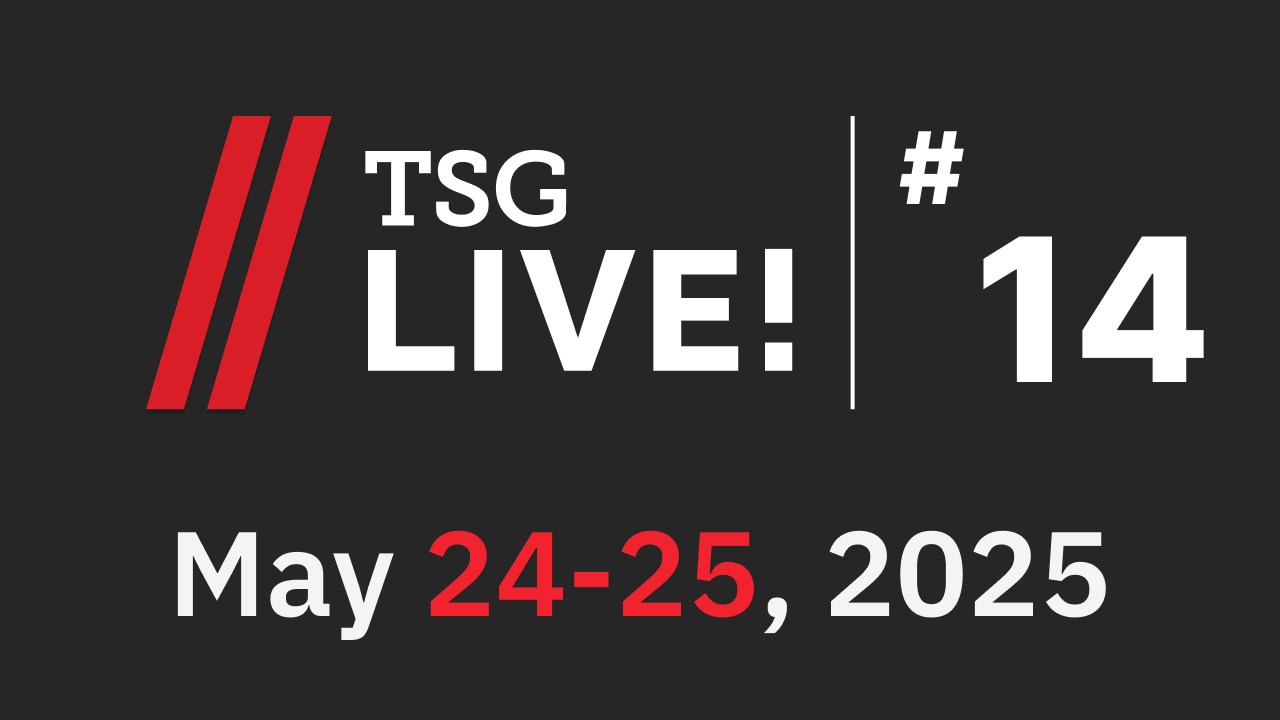
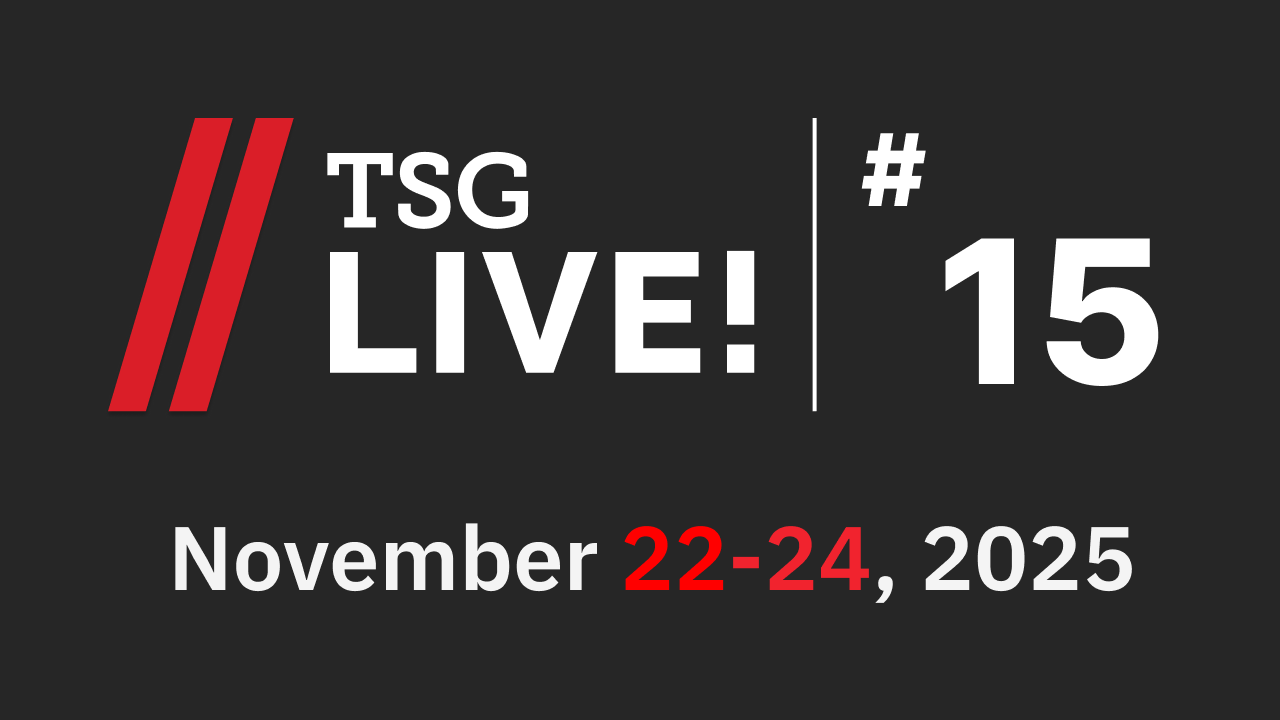
update to live 15

Changed region(s): [[0.0625, 0.1528, 0.75, 0.5806], [0.125, 0.7333, 0.9062, 0.8861], [0.7188, 0.3056, 0.9375, 0.55]]

diff --git a/index.html b/index.html
@@ -5,7 +5,7 @@
   <meta name="viewport"
         content="width=device-width, user-scalable=no, initial-scale=1.0">
   <meta http-equiv="X-UA-Compatible" content="ie=edge">
-  <title>TSG LIVE! 14</title>
+  <title>TSG LIVE! 15</title>
 
   <link rel="apple-touch-icon" sizes="180x180" href="/apple-touch-icon.png">
   <link rel="icon" type="image/png" sizes="32x32" href="/favicon-32x32.png">
@@ -20,7 +20,7 @@
 <div class="container">
   <div class="header">
     <div class="logo">
-      <img src="./twitter_banner.png" alt="TSG LIVE! 13" class="logo-img">
+      <img src="./twitter_banner.png" alt="TSG LIVE! 15" class="logo-img">
     </div>
     <div class="flex-1"></div>
 <!--    <p><a href="https://www.youtube.com/channel/UCzCqJL3-RdhTw9WHYDbPO4Q">YouTube</a></p>-->
@@ -28,40 +28,34 @@
   <h1 class="midashi-text">東大生がお送りするプログラミング・ライブ!!</h1>
   <h1 class="title">会場</h1>
   <div class="kaijou">
-    <h1>東京大学本郷キャンパス 工学部3号館4階35号講義室</13></h1>
+    <h1><a href="https://www.u-tokyo.ac.jp/campusmap/cam02_01_01_j.html">東京大学駒場キャンパス1号館</a> 2階152教室</13></h1>
   </div>
   <h1 class="title">スケジュール</h1>
   <div class="schedule">
     
     <div class="card">
-      <h2>5/24 (土)</h2>
-      <h3>11:00-12:00</h3>
-      <h1>ライトニングトーク</h1>
-      <h3>13:00-16:00</h3>
-      <h1><span class="deemphasize">ライブ</span>CTF</h1>
-      <a href="https://youtube.com/live/T4fzARVYwQg" class="button">視聴する</a>
+      <h2>11/22 (土)</h2>
+      <h3>13:00-15:00</h3>
+      <h1><span class="deemphasize">ライブ</span>コードゴルフ Day1</h1>
+      <a tabindex="-1" href="https://youtube.com/live/LrY0qyefq9A" class="unable_button">視聴する</a>
     </div>
     <div class="card">
-      <h2>5/25 (日)</h2>
+      <h2>11/23 (日)</h2>
+      <h3>11:00-</h3>
+      <h1>ライトニングトーク</h1>
       <h3>13:00-15:00</h3>
-      <h1><span class="deemphasize">ライブ</span>コードゴルフ</h1>
-      <h3>16:00-18:00</h3>
       <h1><span class="deemphasize">ライブ</span>競技プログラミング</h1>
-      <a href="https://youtube.com/live/p3wMpqrVAIw" class="button">視聴する</a>
+      <a tabindex="-1" href="https://youtube.com/live/HH-CyKcd-No" class="unable_button">視聴する</a>
+    </div>
+    <div class="card">
+      <h2>11/24 (月)</h2>
+      <h3>13:00-15:00</h3>
+      <h1><span class="deemphasize">ライブ</span>コードゴルフ Day2</h1>
+      <a tabindex="-1" href="https://youtube.com/live/gXLMeL7jbxI" class="unable_button">視聴する</a>
     </div>
   </div>
   <h1 class="title">競技紹介</h1>
   <div class="intro-box">
-    <div class="intro">
-      <h1>CTF</h1>
-      <p>
-        CTFとは、"Capture the Flag"の略であり、情報セキュリティ、簡単に言うとハッキングの競技になります。
-        形式としては、運営側の作成した、実際のサービスを模して作られたプログラムに対して、
-        プログラムに潜む脆弱性を見つけ攻撃し、相手の持っているフラグと呼ばれる文字列を入手することを目標とするジョパディ形式が主流となっています。<br>
-        問題において登場する技術分野としては、Web技術、アセンブリ、暗号などがあります。それぞれの分野で、要求される知識や攻撃手法は大きく異なります。
-        様々な分野の多彩な攻撃が繰り広げられる様を、ぜひお楽しみください。
-      </p>
-    </div>
     <div class="intro">
       <h1>ライトニングトーク</h1>
       <p>ライトニングトークとは、およそ10分以内の短い時間で発表するプレゼンテーションのことを言います。<br/>
@@ -78,15 +72,20 @@
     </div>
     <div class="intro">
     <h1>コードゴルフ</h1>
-    <p>通常のコードゴルフでは、与えられた課題を解くプログラムをできるだけ少ない文字数で書くことが目的となります。<br/>
-      今回のライブコードゴルフでは、PythonやCなどの一般的なプログラミング言語に加え、Brainf*ck、><>、05AB1Eといった難解言語も登場します。<br/>
-      改行やスペースを切り詰めたり、変数名をすべて一文字に変えたり、ドキュメントを読み込み謎の言語機能を活用したり、アルゴリズムを限界まで最適化したり……<br/>
-      縛りの中で如何に動くプログラムを作り上げるのか、その様子にぜひご注目ください!</p>
+    <p>コードゴルフとは、与えられた課題を解くプログラムをできるだけ少ない文字数で書くことを競う競技です。<br/>
+      今回は1日目と3日目に分けて2回開催します。
+      Day1では、C/C++、Pythonの2言語で競技プログラミングの問題でコードゴルフをします。
+      汎用言語を使うこともあり問題の難易度も高いですが、いかに典型的なテクニックを使ってコードを短くするかということが求められます。<br/>
+      Day2では筑波大学のプログラミングサークルTCPを招待し、Brainf*ck、><>、05AB1Eといった難解言語を中心に、陣取り形式で対決します。
+      これらの言語は言語思想に癖があるものが多く、またそもそも利用者が少ないため、動かすのも一苦労です。その中で自分なりに短縮する方法にたどり着くことが必要になります。<br/>
+      改行やスペースを切り詰めたり、変数名をすべて一文字に変えたり、ドキュメントを読み込み謎の言語機能を活用したり、アルゴリズムを限界まで最適化したり……
+      縛りの中で如何に動くプログラムを作り上げるのか、その様子にぜひご注目ください!
+    </p>
     </div>
   </div>
   <h1 class="title">アンケート</h1>
   <div class="questionnare">
-    <p><a href="https://forms.gle/1kW297MuUTZaAvrV8" target="_blank" rel="noopener noreferrer">アンケート</a>
+    <p><a href="https://forms.gle/BuavjxeXMkHZvjKD6" target="_blank" rel="noopener noreferrer">アンケート</a>
       回答へのご協力お願いします。</p>
   </div>
 </div>

diff --git a/style.css b/style.css
@@ -170,8 +170,8 @@ a:active, a:active:visited, a:active:visited:hover {
 
 .kaijou h1 {
     font-size:  24px;
-    text-decoration: underline;
-    text-decoration-thickness: 1.5px;
+    /* text-decoration: underline; */
+    /* text-decoration-thickness: 1.5px; */
 }
 
 .card h2 {
